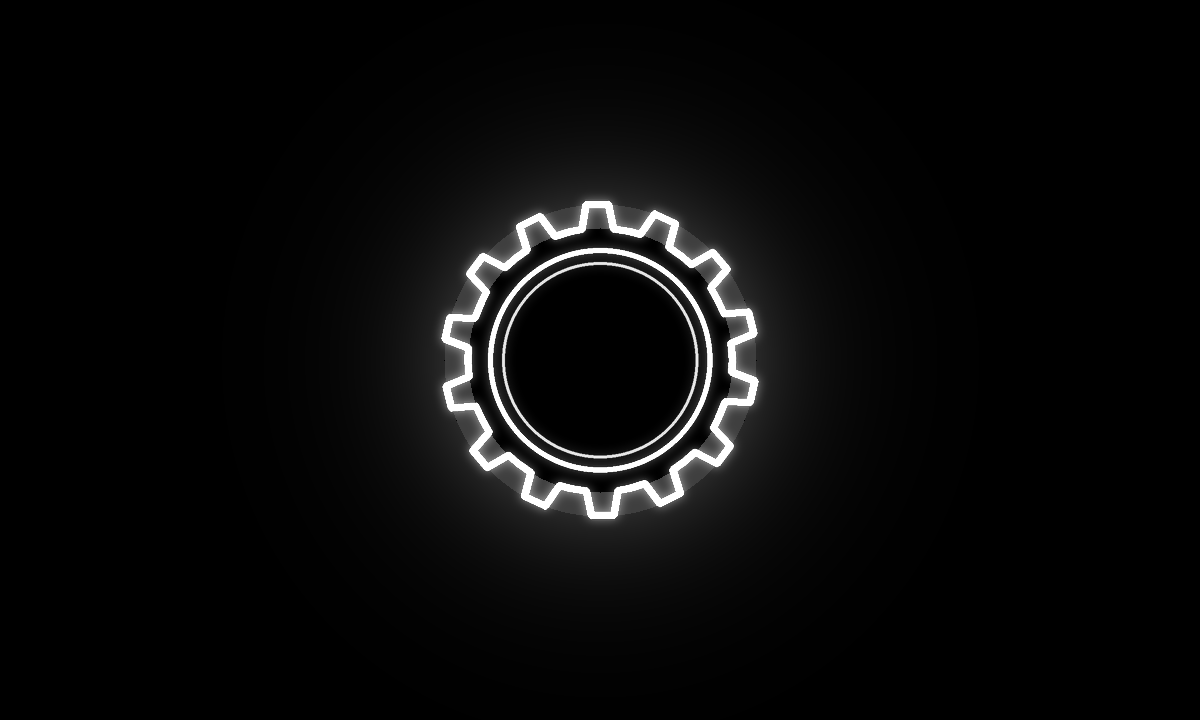
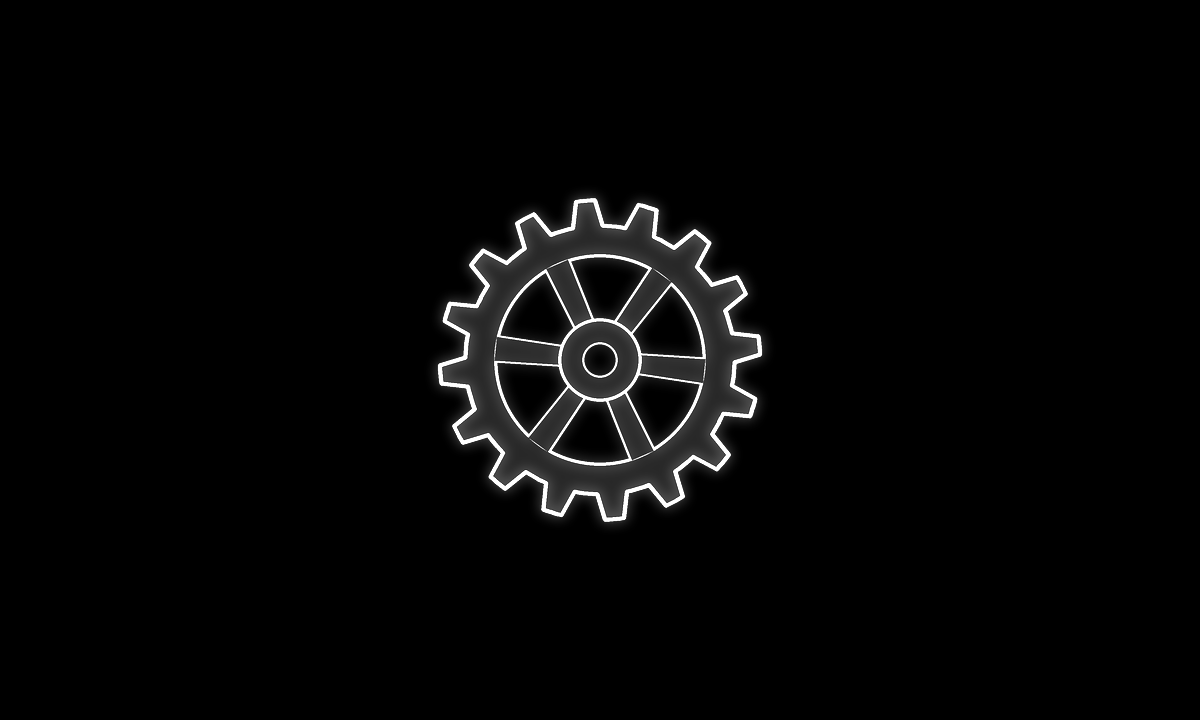
SteamHeart 톱니바퀴를 바퀴살과 축이 있는 선 그림으로 다시 그림 (메인, 전환, 상세 상단)
Claude-Session: https://claude.ai/code/session_01Sa7yTYtcoDL1XnCW4rccMs

Changed region(s): [[0.3392, 0.2444, 0.6783, 0.7639]]

diff --git a/grain.js b/grain.js
@@ -20,7 +20,7 @@ const clamp01 = u => Math.min(1, Math.max(0, u));
 
 async function loadShape(slug) {
   const image = new Image();
-  image.src = `./assets/grain/${slug}.png?v=7`;
+  image.src = `./assets/grain/${slug}.png?v=8`;
   await image.decode();
   const canvas = document.createElement("canvas");
   canvas.width = MAP_W; canvas.height = MAP_H;
@@ -50,7 +50,7 @@ async function start() {
   // 멈춘 화면용 그림은 점 지도보다 세 배 촘촘한 것을 따로 쓴다(선이 또렷하게 보이도록).
   const HI = 3, tints = {};
   await Promise.all(slugs.map(async slug => {
-    const image = new Image(); image.src = `./assets/grain/${slug}-hi.png?v=1`; await image.decode();
+    const image = new Image(); image.src = `./assets/grain/${slug}-hi.png?v=2`; await image.decode();
     const source = document.createElement("canvas"); source.width = MAP_W * HI; source.height = MAP_H * HI;
     const g = source.getContext("2d", { willReadFrequently: true }); g.drawImage(image, 0, 0, source.width, source.height);
     tints[slug] = { levels: g.getImageData(0, 0, source.width, source.height).data, canvas: document.createElement("canvas") };

diff --git a/steamheart/index.html b/steamheart/index.html
@@ -52,7 +52,7 @@
   <!-- portfolio-rail:end -->
 
   <main>
-    <section class="project-hero" aria-labelledby="project-title" style="--hero-mask: url(../assets/grain/steamheart-mask.png)">
+    <section class="project-hero" aria-labelledby="project-title" style="--hero-mask: url(../assets/grain/steamheart-mask.png?v=2)">
       <div class="project-intro">
         <p class="game-tools">Unity 6 · C#</p>
         <h1 id="project-title">SteamHeart</h1>

diff --git a/index.html b/index.html
@@ -24,7 +24,7 @@
   <script type="module" src="./dock.js?v=detail-3"></script>
   <script type="module" src="./work-deck.js?v=browse-1"></script>
   <script type="module" src="./fit.js?v=2"></script>
-  <script type="module" src="./grain.js?v=13"></script>
+  <script type="module" src="./grain.js?v=14"></script>
 </head>
 <body class="home-page portfolio-page portfolio-home portfolio-nav-page">
 <div class="page">
